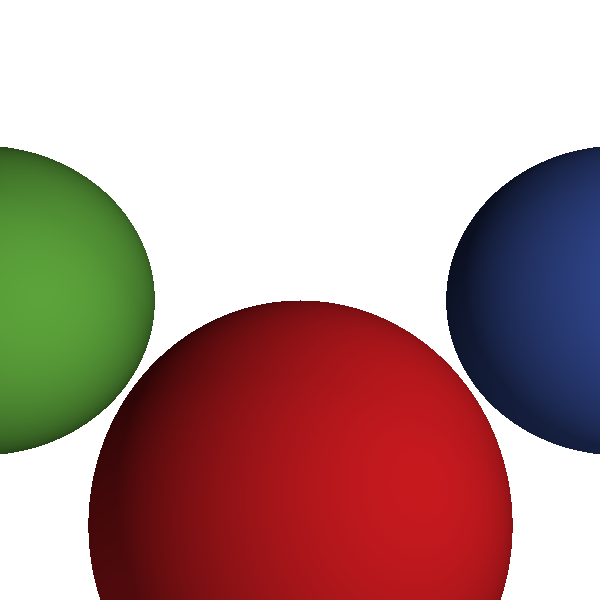
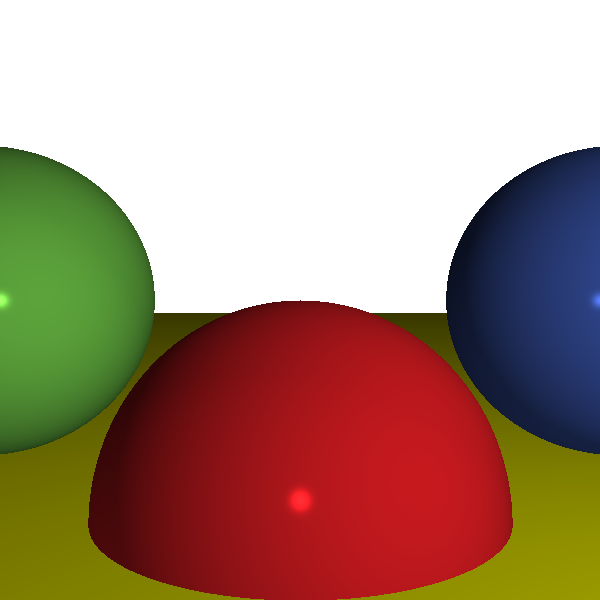
Assignment02

diff --git a/code/Assignment02/raytracing02.py b/code/Assignment02/raytracing02.py
@@ -8,8 +8,8 @@ class RayTracing02(RayTracing01):
     def __init__(self, width, height, viewport_size, projection_plane_z, background_color, camera_position, spheres, lights):
         super().__init__(width, height, viewport_size, projection_plane_z, background_color, camera_position, spheres)
         self.lights = lights
-
-    def ComputeLighting(self, point, normal):
+        
+    def ComputeLighting(self, point, normal, view, specular):
         """
         :type point: Vector3, location
         :type normal: Vector3, vector
@@ -29,6 +29,12 @@ class RayTracing02(RayTracing01):
                 n_dot_l = normal.dot(vec_l)
                 if n_dot_l > 0:
                     intensity += light.intensity * n_dot_l / (normal.length * vec_l.length)
+
+                if specular != -1:
+                    vec_r = 2 * normal * normal.dot(vec_l)
+                    r_dot_v = view.dot(vec_r)
+                    if r_dot_v > 0:
+                        intensity += light.intensity * pow((r_dot_v / (view.length * vec_r.length)), specular)
 
         return intensity
 
@@ -59,9 +65,9 @@ class RayTracing02(RayTracing01):
         point = origin + closest_t * direction
         normal = (point - closest_sphere.center).normalize()
 
-        color_r = closest_sphere.color[0] * self.ComputeLighting(point, normal)
-        color_g = closest_sphere.color[1] * self.ComputeLighting(point, normal)
-        color_b = closest_sphere.color[2] * self.ComputeLighting(point, normal)
+        color_r = closest_sphere.color[0] * self.ComputeLighting(point, normal, -direction, sphere.specular)
+        color_g = closest_sphere.color[1] * self.ComputeLighting(point, normal, -direction, sphere.specular)
+        color_b = closest_sphere.color[2] * self.ComputeLighting(point, normal, -direction, sphere.specular)
 
         return (int(color_r), int(color_g), int(color_b))
 

diff --git a/code/Assignment02/main.py b/code/Assignment02/main.py
@@ -7,16 +7,17 @@ from collections import namedtuple
 from vector3 import Vector3
 from raytracing02 import RayTracing02, Light 
 
-Sphere = namedtuple("Sphere", ["center", "radius", "color"])
+Sphere = namedtuple("Sphere", ["center", "radius", "color", 'specular'])
 
 viewport_size = 1
 projection_plane_z = 1
 camera_position = Vector3(0, 0, 0)
 background_color = (255, 255, 255)
 spheres = [
-    Sphere(Vector3(0.0, -1.0, 3.0), 1.0, (237, 31, 37)),
-    Sphere(Vector3(2.0, 0.0, 4.0), 1.0, (56, 82, 164)),
-    Sphere(Vector3(-2.0, 0.0, 4.0), 1.0, (106, 188, 68)),
+    Sphere(Vector3(0.0, -1.0, 3.0), 1.0, (237, 31, 37), 500),
+    Sphere(Vector3(2.0, 0.0, 4.0), 1.0, (56, 82, 164), 500),
+    Sphere(Vector3(-2.0, 0.0, 4.0), 1.0, (106, 188, 68), 10),
+    Sphere(Vector3(0.0, -5001.0, 0.0), 5000.0, Vector3(255, 255, 0), 1000),
 ]
 
 width = 600
